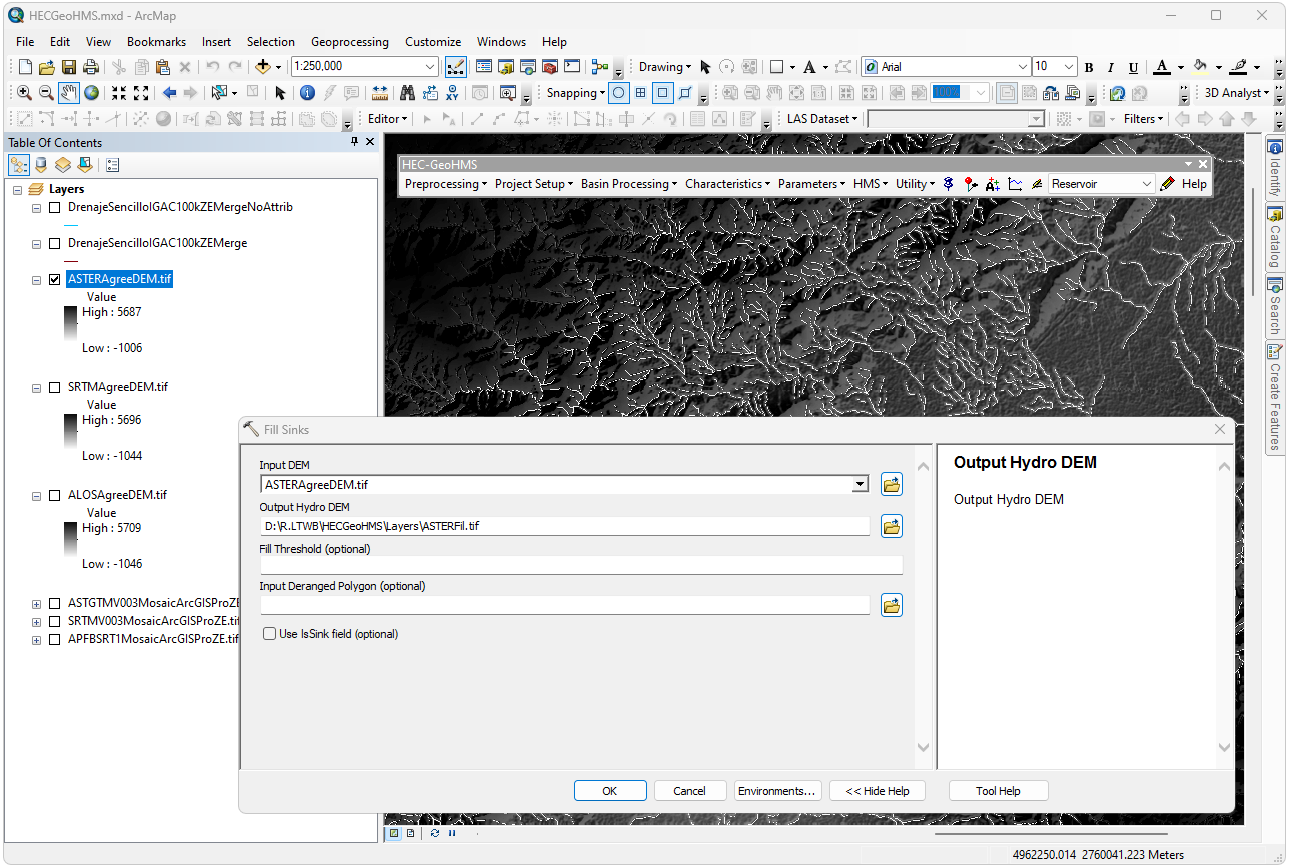
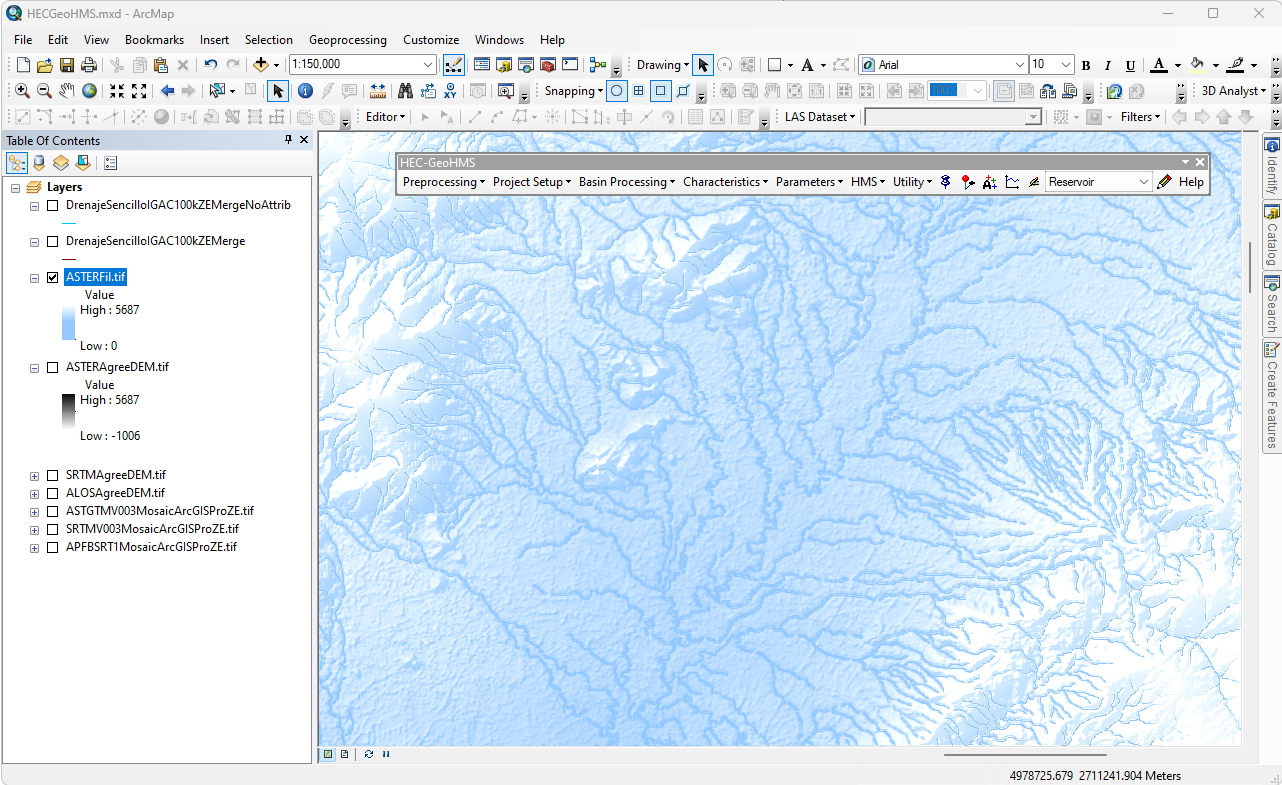
General update - Fill DEM.

diff --git a/Section02/AgreeDEM/Readme.md b/Section02/AgreeDEM/Readme.md
@@ -74,11 +74,11 @@ ALOS PALSAR de la zona de estudio (288 MB aprox.)
 
 Especificaciones de las grillas recortadas de la zona de estudio, referencia espacial MAGNA_SIRGAS_CMT12:
 
-| MDE         | Grilla mosaico recortada        | Resolución, m | Columnas | Filas | Area, km² |
-|-------------|---------------------------------|---------------|----------|-------|-----------|
-| ASTER GDEM  | ASTGTMV003MosaicArcGISProZE.tif | 30.68464585   | 5408     | 8221  | 41860.42  |
-| SRTM        | SRTMV003MosaicArcGISProZE.tif   | 30.68464585   | 5408     | 8221  | 41860.42  |
-| ALOS PALSAR | APFBSRT1MosaicArcGISProZE.tif   | 12.5          | 13274    | 20179 | 41852.51  |
+| MDE         | Grilla mosaico recortada        | Resolución, m | Columnas | Filas | Area, km² | Cota mínima, m | Cota máxima, m |
+|-------------|---------------------------------|---------------|----------|-------|-----------|----------------|----------------|
+| ASTER GDEM  | ASTGTMV003MosaicArcGISProZE.tif | 30.68464585   | 5408     | 8221  | 41860.42  | 0              | 5687           |
+| SRTM        | SRTMV003MosaicArcGISProZE.tif   | 30.68464585   | 5408     | 8221  | 41860.42  | -46            | 5696           |
+| ALOS PALSAR | APFBSRT1MosaicArcGISProZE.tif   | 12.5          | 13274    | 20179 | 41852.51  | -48            | 5709           |
 
 > El procedimiento anterior puede ser ejecutado en ArcGIS for Desktop utilizando las herramientas _ArcToolBox / Analysis Tools / Buffer_ y _ArcToolBox / Analysis Tools / Feature Envelope To Polygon_
 > 
@@ -200,18 +200,24 @@ Obtenga las estadísticas de campo para los 17069 tramos de drenaje de la red ut
 
 ![R.LTWB](https://github.com/rcfdtools/R.LTWB/blob/main/Section02/AgreeDEM/Screenshot/ArcGISDesktop10.2.2HECGeoHMSDEMReconditioningParameters.png)
 
-Resultados en ventana de ejecución para ASTERAgreeDEM.tif (1 minuto con 21 segundos)
+Resultados en ventana de ejecución para ASTERAgreeDEM.tif (dt: 01'21")
 
 ![R.LTWB](https://github.com/rcfdtools/R.LTWB/blob/main/Section02/AgreeDEM/Screenshot/ArcGISDesktop10.2.2HECGeoHMSDEMReconditioningASTERLog1.png)
 ![R.LTWB](https://github.com/rcfdtools/R.LTWB/blob/main/Section02/AgreeDEM/Screenshot/ArcGISDesktop10.2.2HECGeoHMSDEMReconditioningASTERLog2.png)
 
-Resultados en ventana de ejecución para SRTMAgreeDEM.tif (1 minuto con 12 segundos)
+Resultados en ventana de ejecución para SRTMAgreeDEM.tif (dt: 01'12")
 ![R.LTWB](https://github.com/rcfdtools/R.LTWB/blob/main/Section02/AgreeDEM/Screenshot/ArcGISDesktop10.2.2HECGeoHMSDEMReconditioningSRTMLog1.png)
 ![R.LTWB](https://github.com/rcfdtools/R.LTWB/blob/main/Section02/AgreeDEM/Screenshot/ArcGISDesktop10.2.2HECGeoHMSDEMReconditioningSRTMLog2.png)
 
-Resultados en ventana de ejecución para ALOSAgreeDEM.tif (7 minutos con 21 segundos)
+Resultados en ventana de ejecución para ALOSAgreeDEM.tif (dt: 07'21")
 ![R.LTWB](https://github.com/rcfdtools/R.LTWB/blob/main/Section02/AgreeDEM/Screenshot/ArcGISDesktop10.2.2HECGeoHMSDEMReconditioningALOSLog1.png)
 ![R.LTWB](https://github.com/rcfdtools/R.LTWB/blob/main/Section02/AgreeDEM/Screenshot/ArcGISDesktop10.2.2HECGeoHMSDEMReconditioningALOSLog2.png)
+
+| MDE reacondicionado | Cota mínima, m | Cota máxima, m |
+|---------------------|----------------|----------------|
+| ASTERAgreeDEM.tif   | -1006          | 5687           |
+| SRTMAgreeDEM.tif    | -1044          | 5696           |
+| ALOSAgreeDEM.tif    | -1046          | 5709           |
 
 > En caso de que el proceso de ejecución devuelva error de escritura en memoria y no permita generar las grillas, cree en la raíz del disco una copia de la carpeta _D:\R.LTWB\HECGeoHMS_, reinicie su equipo y ejecute el readoncicionamiento desde esta localización.
 

diff --git a/Section02/FillDEM/Readme.md b/Section02/FillDEM/Readme.md
@@ -46,21 +46,28 @@ El relleno de sumideros puede ser realizado con Spatial Analyst Tools de ArcGIS 
 
 1. En ArcGIS for Desktop, abra el mapa _D:\R.LTWB\HECGeoHMS\HECGeoHMS.mxd_ creado en la actividad de [reacondicionamiento de modelos digitales de elevación](https://github.com/rcfdtools/R.LTWB/tree/main/Section02/AgreeDEM), este mapa contiene las grillas DEM reacondicionadas. En caso de que este creando un mapa nuevo, cargue directamente las grillas contenidas en el directorio  _D:\R.LTWB\HECGeoHMS\Layers_. En la barra de herramientas _HEC-GeoHMS_, vaya al menú _Preprocessing_ y seleccione la opción _Fill Sinks_. 
 
-Realice el procedimiento de relleno de sumideros en formato GeoTIFF para los 3 modelos digitales de elevación reacondicionados y asigne los siguientes nombres en la ruta _D:\R.LTWB\HECGeoHMS\Layers\_:
-
-| MDE reacondicionado | Relleno de sumideros | 
-|---------------------|----------------------|
-| ASTERAgreeDEM.tif   | ASTERFil.tif        | 
-| SRTMAgreeDEM.tif    | SRTMFil.tif         |
-| ALOSAgreeDEM.tif    | ALOSFil.tif         |
+Realice el procedimiento de relleno de sumideros en formato GeoTIFF para los 3 modelos digitales de elevación reacondicionados y asigne los nombres ASTERFil.tif, SRTMFil.tif y ALOSFil.tif en la ruta _D:\R.LTWB\HECGeoHMS\Layers\_:
 
 Parámetros de entrada para relleno de sumideros para grillas reacondicionada ASTER
-![R.LTWB](https://github.com/rcfdtools/R.LTWB/blob/main/Section02/AgreeDEM/Screenshot/ArcGISDesktop10.2.2HECGeoHMSFillDEMASTER.png)
+![R.LTWB](https://github.com/rcfdtools/R.LTWB/blob/main/Section02/AgreeDEM/Screenshot/ArcGISDesktop10.2.2HECGeoHMSFillDEMASTERParameters.png)
 
 Resultados ventana de ejecución grillas ASTER (03'34")
+![R.LTWB](https://github.com/rcfdtools/R.LTWB/blob/main/Section02/AgreeDEM/Screenshot/ArcGISDesktop10.2.2HECGeoHMSFillDEMASTERLog.png)
 ![R.LTWB](https://github.com/rcfdtools/R.LTWB/blob/main/Section02/AgreeDEM/Screenshot/ArcGISDesktop10.2.2HECGeoHMSFillDEMASTER.png)
 
+Resultados ventana de ejecución grillas SRTM (XX'XX")
+![R.LTWB](https://github.com/rcfdtools/R.LTWB/blob/main/Section02/AgreeDEM/Screenshot/ArcGISDesktop10.2.2HECGeoHMSFillDEMSRTMLog.png)
+![R.LTWB](https://github.com/rcfdtools/R.LTWB/blob/main/Section02/AgreeDEM/Screenshot/ArcGISDesktop10.2.2HECGeoHMSFillDEMSRTM.png)
 
+Resultados ventana de ejecución grillas SRTM (XX'XX")
+![R.LTWB](https://github.com/rcfdtools/R.LTWB/blob/main/Section02/AgreeDEM/Screenshot/ArcGISDesktop10.2.2HECGeoHMSFillDEMALOSLog.png)
+![R.LTWB](https://github.com/rcfdtools/R.LTWB/blob/main/Section02/AgreeDEM/Screenshot/ArcGISDesktop10.2.2HECGeoHMSFillDEMALOS.png)
+
+| MDE reacondicionado | Cota mínima, m | Cota máxima, m | Relleno de sumideros | Cota mínima, m  | Cota máxima, m |
+|---------------------|----------------|----------------|----------------------|-----------------|----------------|
+| ASTERAgreeDEM.tif   | -1006          | 5687           | ASTERFil.tif         | 0               | 5687           |
+| SRTMAgreeDEM.tif    | -1044          | 5696           | SRTMFil.tif          | 0               | 5687           |
+| ALOSAgreeDEM.tif    | -1046          | 5709           | ALOSFil.tif          | 0               | 5687           |
 
 En este momento ya dispone de la grilla de relleno de sumideros requerida para la marcación de direcciones de flujo.
 
